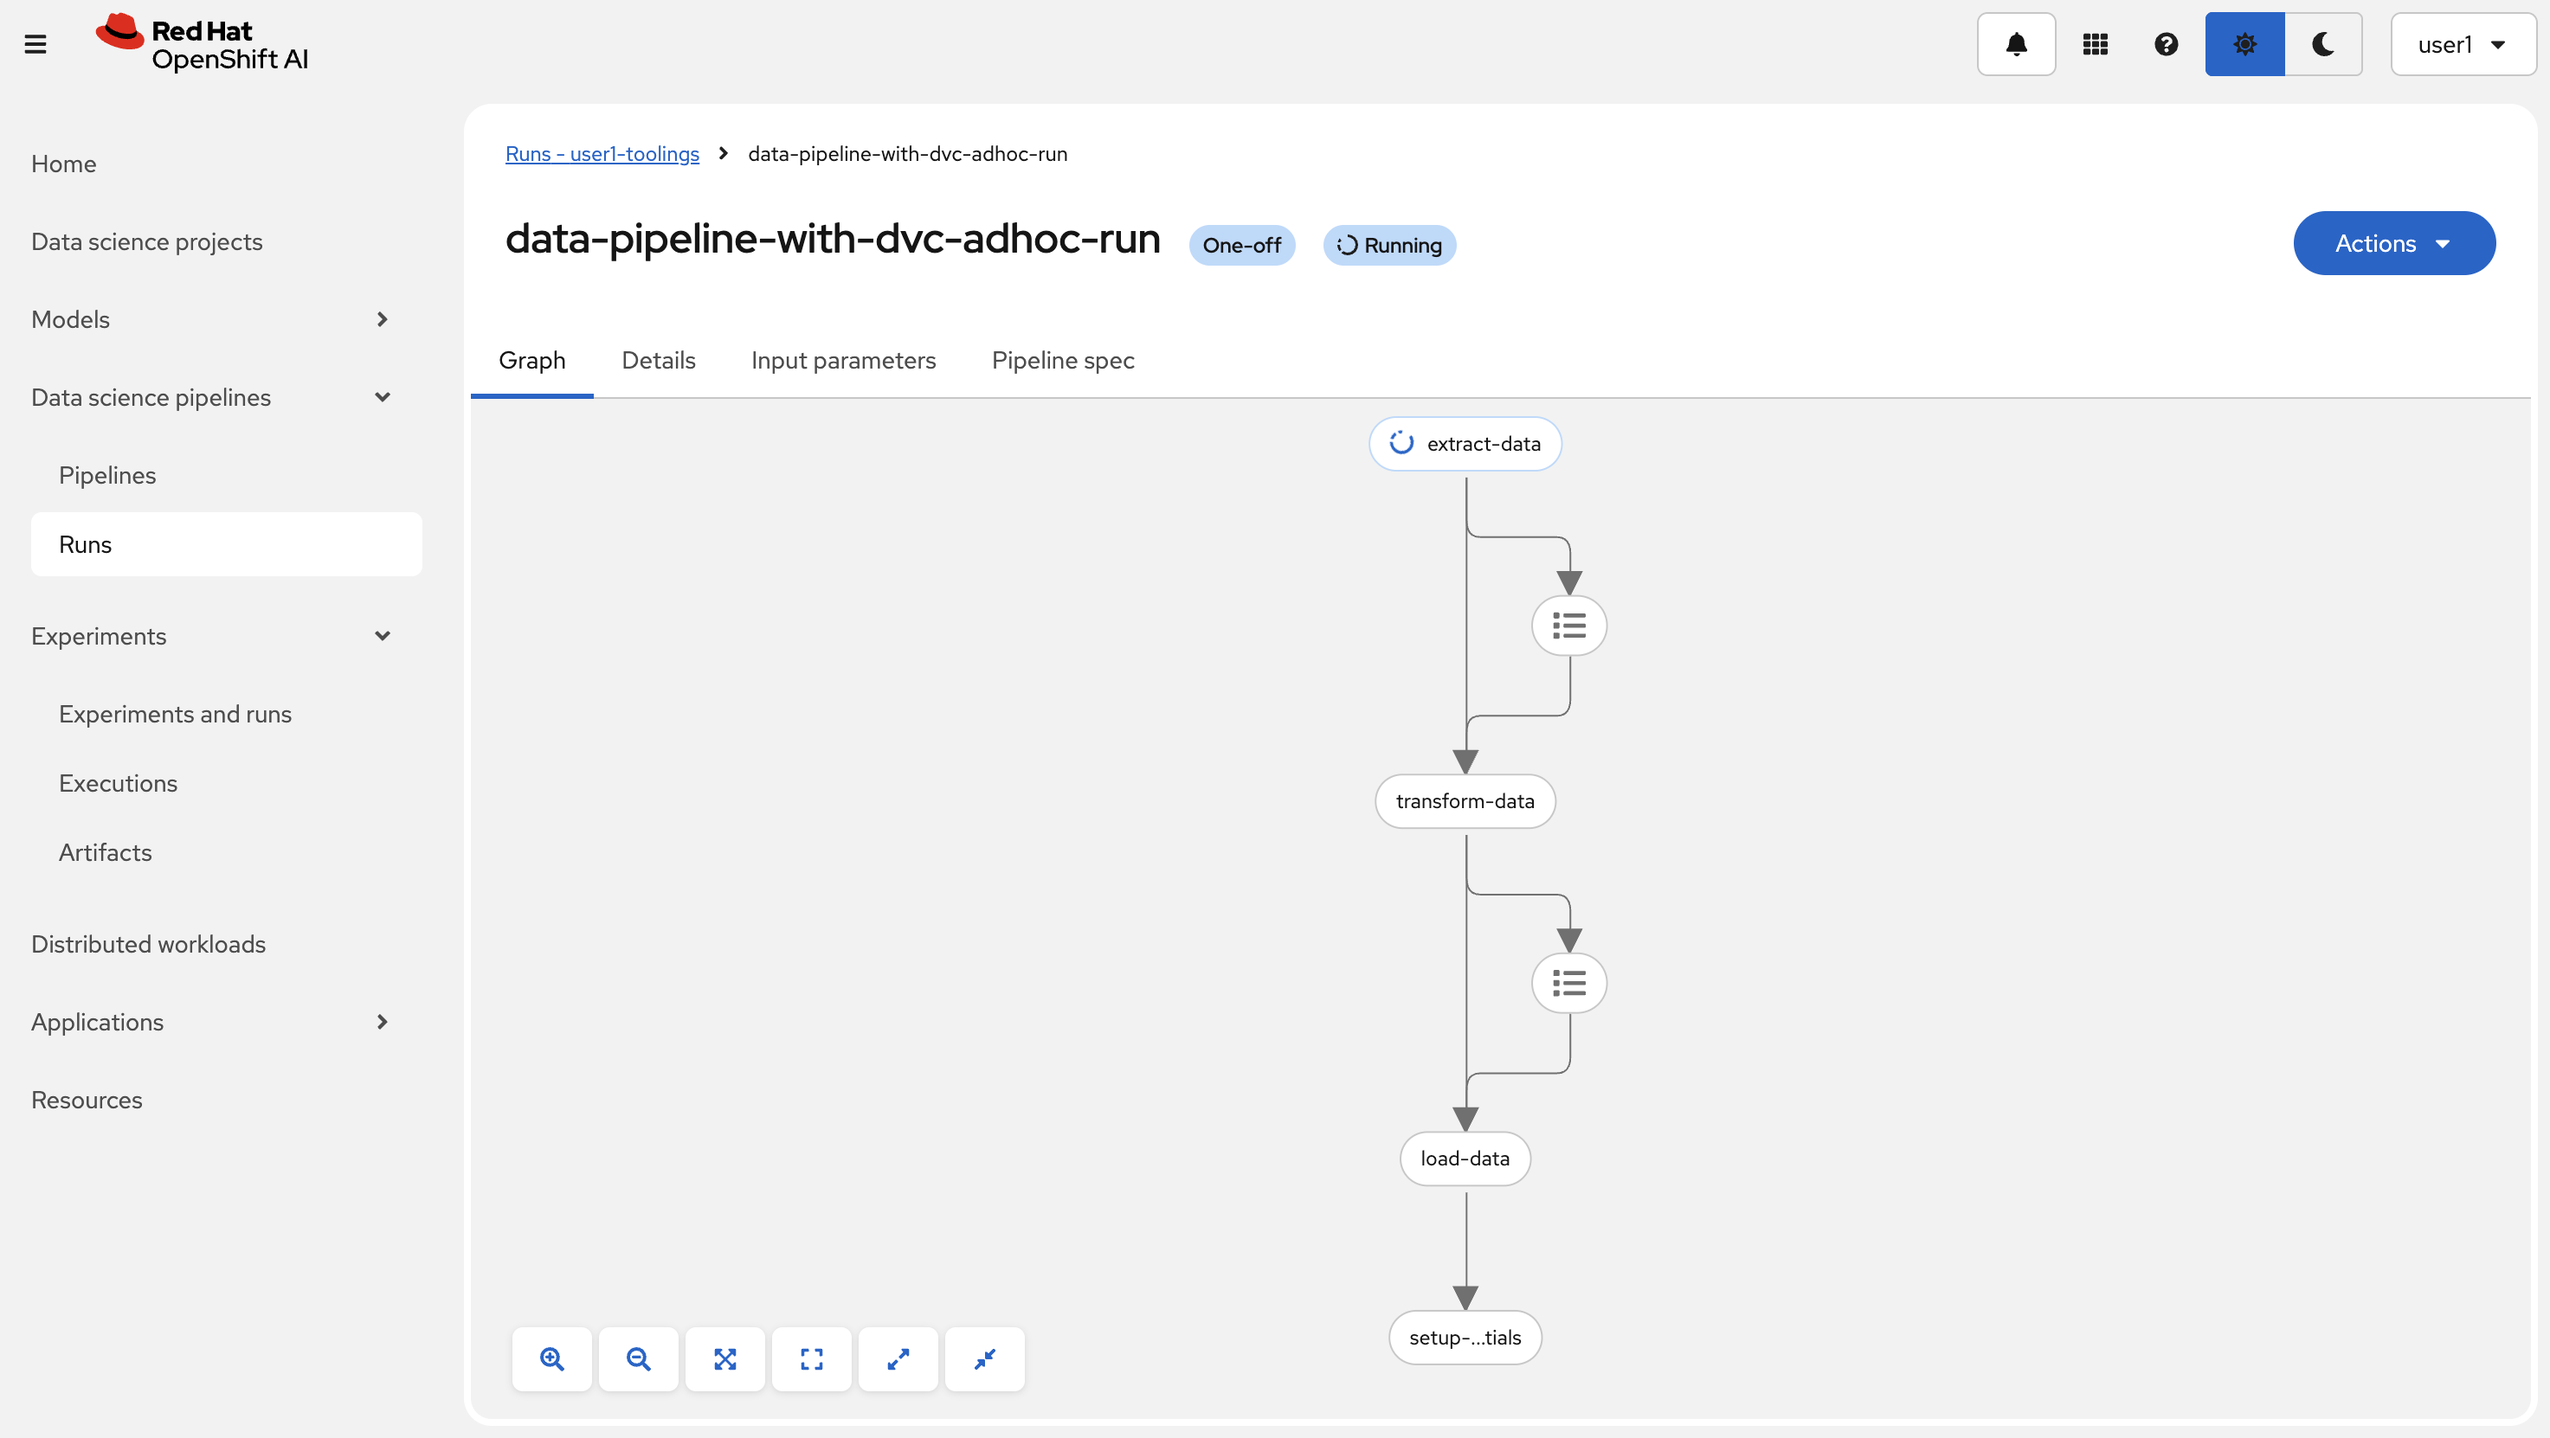
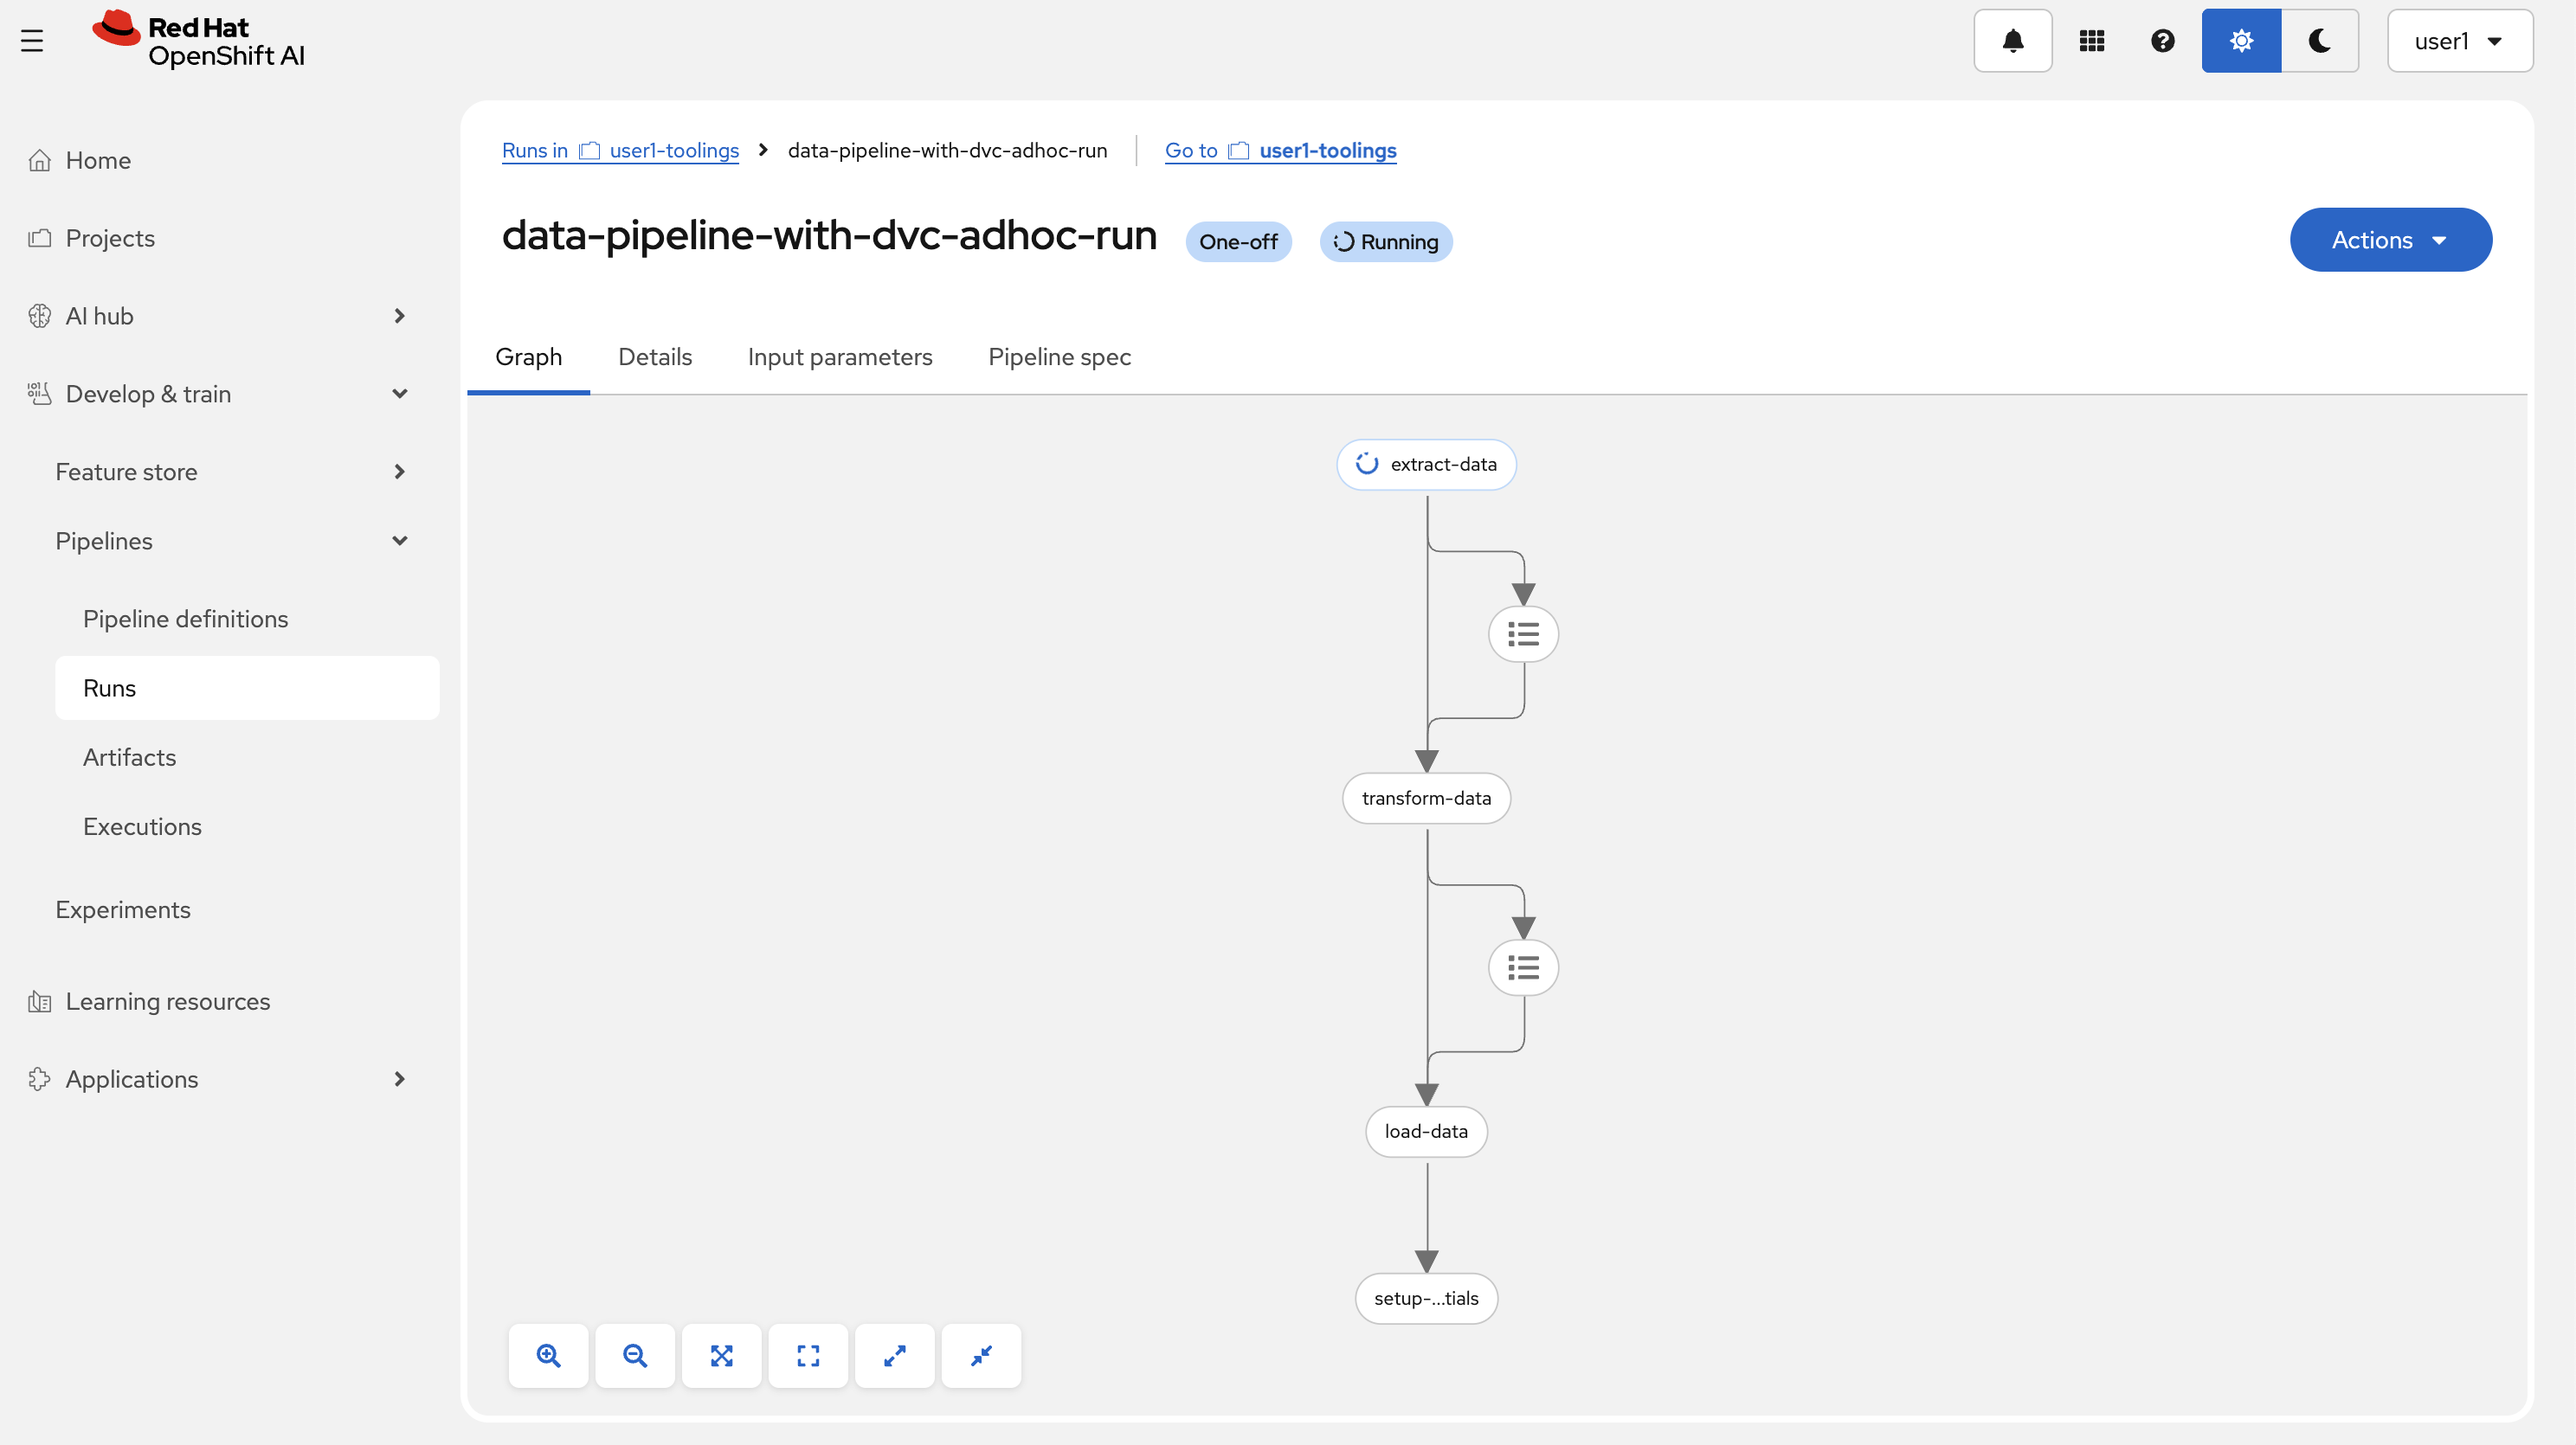
🎶fifth chapter updates🎶

diff --git a/docs/5-the-data-tracks/2-update-ct-pipeline.md b/docs/5-the-data-tracks/2-update-ct-pipeline.md
@@ -102,7 +102,7 @@ And we have a bit of groundwork to cover first to set everything up properly.
 
     ![data-pipeline-download.gif](./images/data-pipeline-download.gif)
 
-2. In OpenShift AI Dashboard, go to `Data science pipelines` > `Pipelines`, select `<USER_NAME>-toolings` as the project, and click `Import pipeline`. 
+2. In OpenShift AI Dashboard, go to `Develop & train` > `Pipelines` > `Pipelines definitions` , select `<USER_NAME>-toolings` as the project, and click `Import pipeline`. 
 
     ![import-pipeline-1.png](./images/import-pipeline-1.png)
 
@@ -146,11 +146,11 @@ And we have a bit of groundwork to cover first to set everything up properly.
 
     ..and hit `Create schedule`.
 
-5. You can see this scheduled runs under `Experiments` > `Experiment and runs` > `Default` > `Schedules`
+5. You can see this scheduled runs under `Develop & train` > `Pipelines` > `Runs`  > `Schedules`
 
     ![view-scheduled-runs.png](./images/view-scheduled-runs.png)
 
-6. But let's not wait for it to run. Just like we scheduled, we can also create an ad-hoc run. Go back to `Data science pipelines` > `Pipelines` > `data-pipeline-with-dvc` and click `Actions` on the upper right corner again, and select `Create run`.
+6. But let's not wait for it to run. Just like we scheduled, we can also create an ad-hoc run. Go back to  `Develop & train` > `Pipelines`> `Pipeline definitions` > `data-pipeline-with-dvc` and click `Actions` on the upper right corner again, and select `Create run`.
 
     ![create-run.png](./images/create-run.png)
 
@@ -183,7 +183,6 @@ And we have a bit of groundwork to cover first to set everything up properly.
     Go to OpenShift Console > Pipelines > `ct-pipeline`
 
     ![pipeline-run-dvc.png](./images/pipeline-run-dvc.png)
-
     Now apart from code change and alerts, the pipeline gets triggered when there is fresh data!
 
 8.  Check Model Registry, you now have dvc config there as well as which version of the data was used to build this version of the Machine Learning model.
